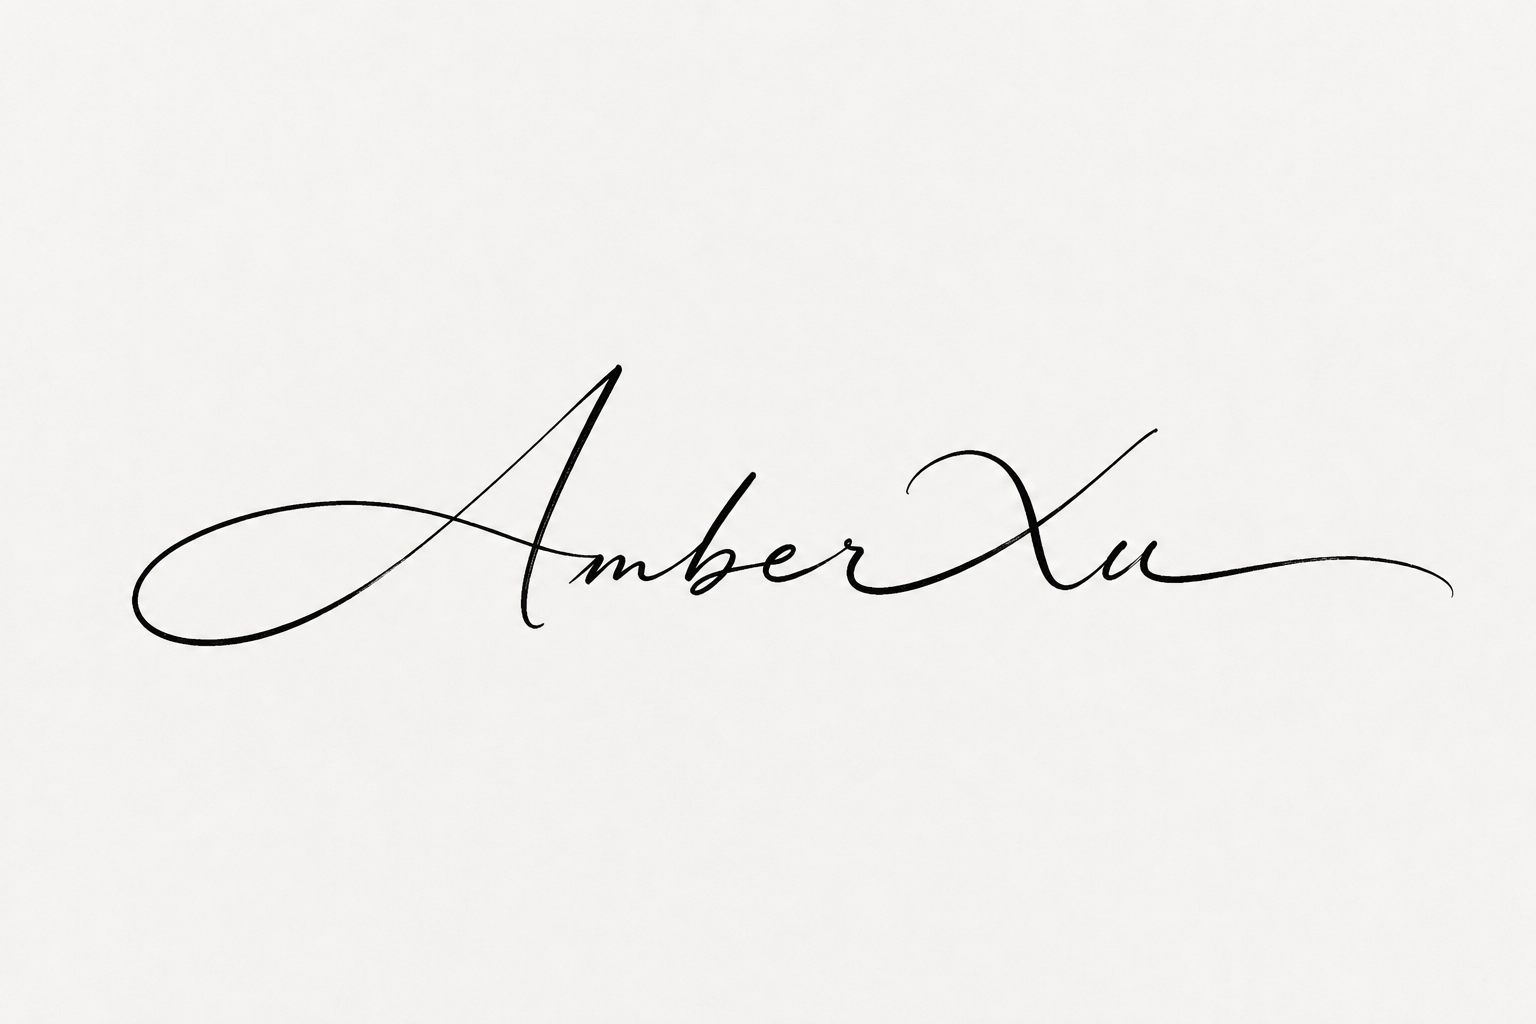
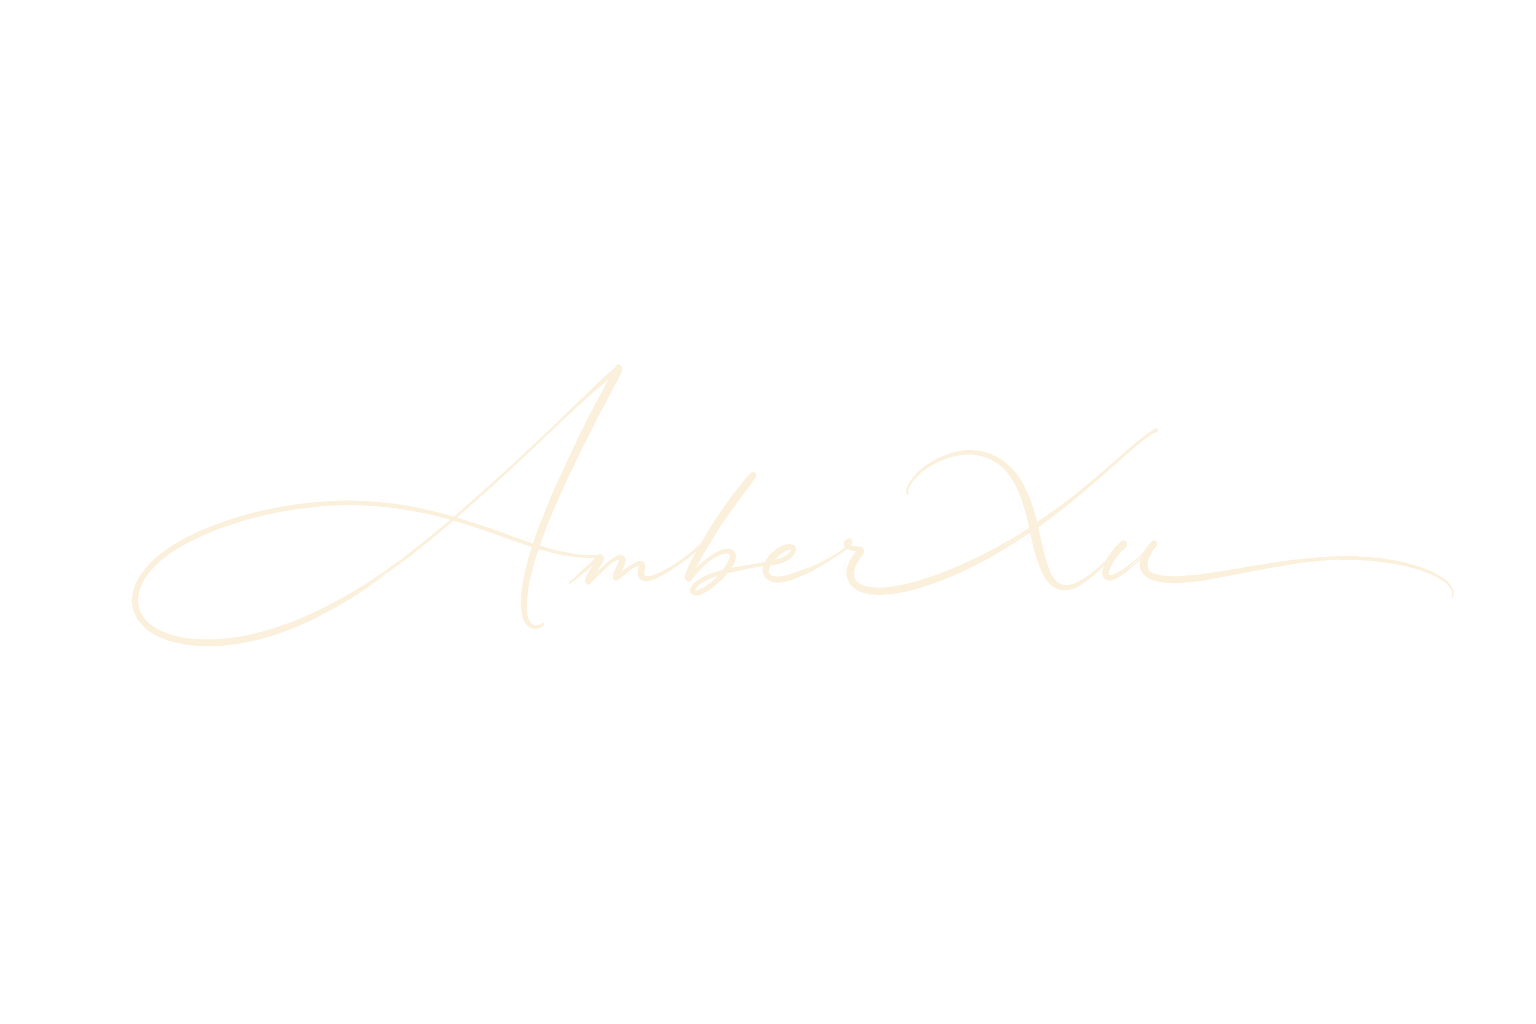
fix(images): pre-process to alpha-PNG, remove blend-mode tricks (etching now visible reliably)

diff --git a/src/app/page.tsx b/src/app/page.tsx
@@ -95,7 +95,7 @@ export default function Home() {
             {t.eyebrow}
           </motion.p>
 
-          <div className="relative isolate">
+          <div className="relative">
             {/* Hover-reveal hotspot — cursor inside the gem area summons a small
                 translucent crystal-clear amber lens, transforming the etching into
                 real material under the cursor. */}
@@ -137,12 +137,7 @@ export default function Home() {
                   alt=""
                   fill
                   sizes="(max-width: 768px) 80vw, 640px"
-                  style={{
-                    objectFit: "contain",
-                    // black background of the photo screen-blends to nothing,
-                    // so the lens only paints over the actual gem shape
-                    mixBlendMode: "screen",
-                  }}
+                  style={{ objectFit: "contain" }}
                 />
               </div>
             </div>
@@ -196,9 +191,9 @@ export default function Home() {
                 sizes="(max-width: 768px) 80vw, 640px"
                 style={{
                   objectFit: "contain",
-                  mixBlendMode: "screen",
+                  // alpha PNG already strips background; subtle warm tint to fit palette
                   filter:
-                    "sepia(0.22) hue-rotate(-8deg) saturate(1.1) brightness(1.02) contrast(1.04)",
+                    "sepia(0.18) hue-rotate(-8deg) saturate(1.05) brightness(1.05)",
                 }}
               />
             </motion.div>
@@ -212,9 +207,8 @@ export default function Home() {
                 height: "min(70%, 560px)",
                 borderRadius: "50%",
                 background:
-                  "radial-gradient(ellipse 60% 70% at 55% 50%, rgba(217,165,116,0.16), transparent 72%)",
+                  "radial-gradient(ellipse 60% 70% at 55% 50%, rgba(217,165,116,0.18), transparent 72%)",
                 filter: "blur(36px)",
-                mixBlendMode: "screen",
                 zIndex: 0,
               }}
             />
@@ -242,12 +236,7 @@ export default function Home() {
                   fill
                   priority
                   sizes="(max-width: 768px) 100vw, 880px"
-                  style={{
-                    objectFit: "contain",
-                    // black ink on cream → invert to white ink, then screen-blend onto our dark page
-                    filter: "invert(1) brightness(1) contrast(1.05)",
-                    mixBlendMode: "screen",
-                  }}
+                  style={{ objectFit: "contain" }}
                 />
               </motion.div>
             </h1>
